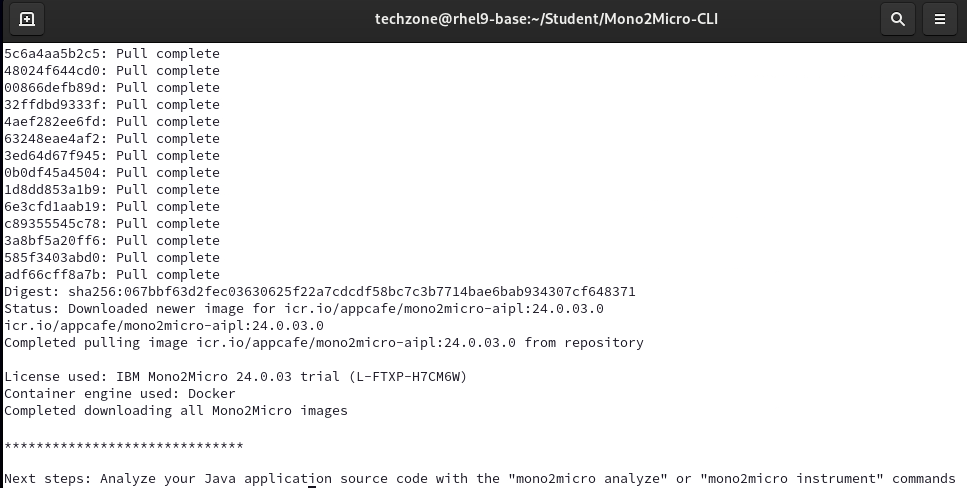
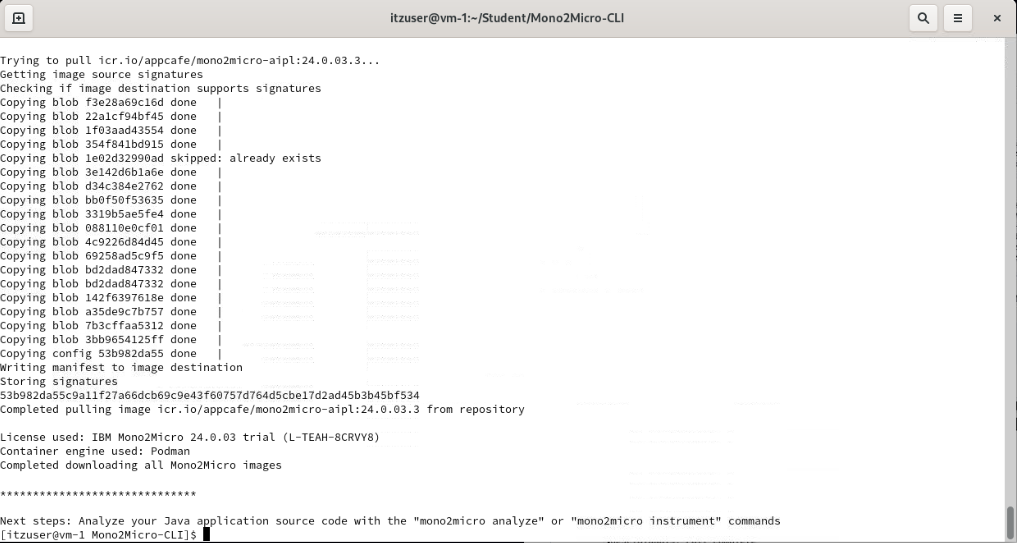
Update JDK path

Changed region(s): [[0.0, 0.0, 1.0, 1.0]]

diff --git a/README.md b/README.md
@@ -307,7 +307,7 @@ In this section of the lab, you will download and install the mono2micro command
 
 5.  Run the Mono2Micro **install command,** selecting Docker as the container engine:
 
-        ./mono2micro install -c docker
+        ./mono2micro install -c podman
     You need to choose option **`1`** to accept the license:
     <kbd>![](./images/media/mono2micro-install.png)</kbd>
 
@@ -333,7 +333,7 @@ Let’s begin with the build of the .ear file and then the static data collectio
 
     Adjust the sample package to use the IBM Semeru Java 8 SDK for Liberty.
 
-        echo "JAVA_HOME=/home/itzuser/jdk8u402-b06/jre" > /home/itzuser/Student/m2m-ws-sample/defaultapplication/monolith/DefaultApplication-ear/src/main/liberty/config/server.env
+        echo "JAVA_HOME=/usr/lib/jvm/ibm-semeru-open-8-jdk/jre" > /home/itzuser/Student/m2m-ws-sample/defaultapplication/monolith/DefaultApplication-ear/src/main/liberty/config/server.env
 
 
     Change to the directory location of the application code, and run the maven build.